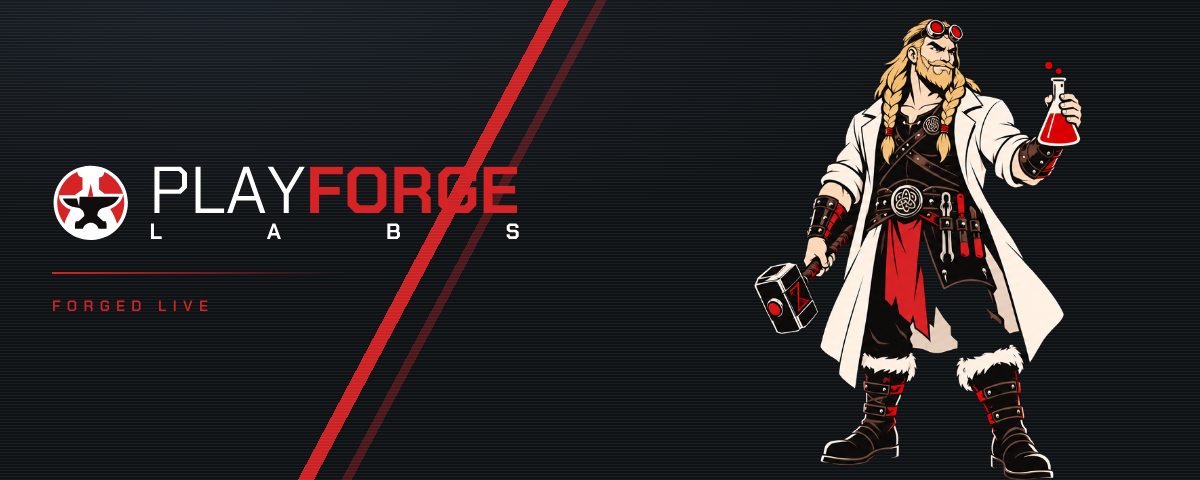
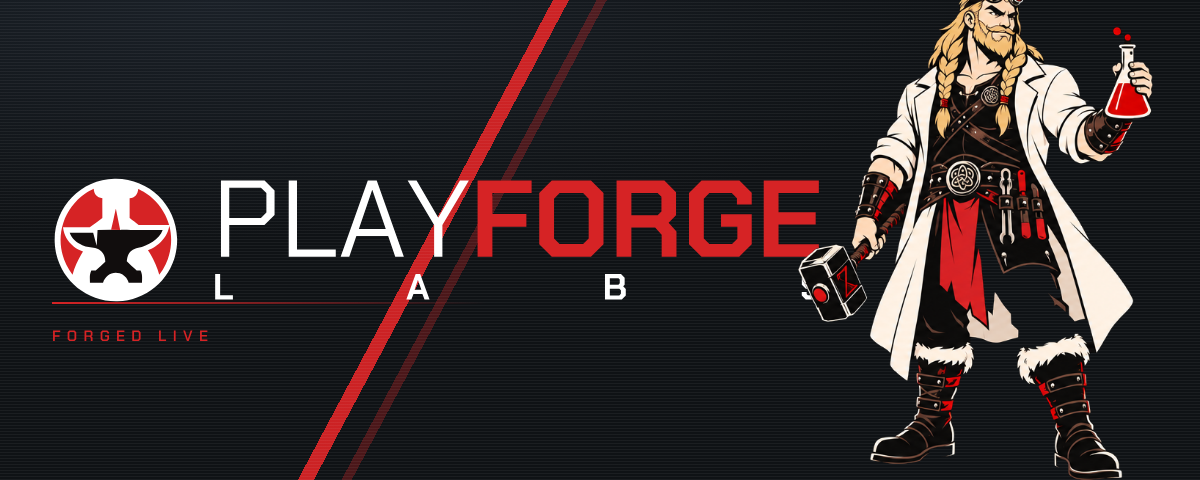
Restore wordmark/mascot overlap at the composition that was approved
The wordmark now runs behind the mascot rather than stopping short of it.
An earlier change kept the layering but shrank the type, so the two no
longer intersected — the overlap was gone even though the z-order was
right. The lockup is scaled so PLAYFORG reads clear with the final E
meeting the coat, and LAB reads with the S behind the figure.

FORGE stays brand red. Applied to Twitch and Kick offline screens and
banners; YouTube keeps its own safe-band composition, since a 423px band
cannot carry this treatment.

Claude-Session: https://claude.ai/code/session_01VQpikmwb7K7sP9jWmUW1g1

diff --git a/brand/tools/channel.js b/brand/tools/channel.js
@@ -42,10 +42,10 @@ const CSS = `
 const SCENES = {
  // Layout rule: two zones, no overlap. Type lives in the left zone,
  // the mascot is contained in the right zone and never crosses in.
- 'twitch-banner': { w:1200, h:480, lock:470, plate:'96%', pad:52, label:'Forged live', ls:15 },
- 'twitch-offline':{ w:1920, h:1080, lock:900, plate:'97%', pad:130, label:'Currently offline', ls:28, overlap:true },
- 'kick-banner':   { w:1920, h:1080, lock:900, plate:'97%', pad:130, label:'Forged live', ls:28, overlap:true },
- 'kick-offline':  { w:1920, h:1080, lock:900, plate:'97%', pad:130, label:'Stream ended', ls:28, overlap:true },
+ 'twitch-banner': { w:1200, h:480, lock:775, plate:'104%', pad:52, label:'Forged live', ls:15, overlap:true },
+ 'twitch-offline':{ w:1920, h:1080, lock:1240, plate:'97%', pad:130, label:'Currently offline', ls:28, overlap:true },
+ 'kick-banner':   { w:1920, h:1080, lock:1240, plate:'97%', pad:130, label:'Forged live', ls:28, overlap:true },
+ 'kick-offline':  { w:1920, h:1080, lock:1240, plate:'97%', pad:130, label:'Stream ended', ls:28, overlap:true },
 };
 
 /* YouTube: 2560x1440 upload, but only a ~1546x423 centred band shows on every
